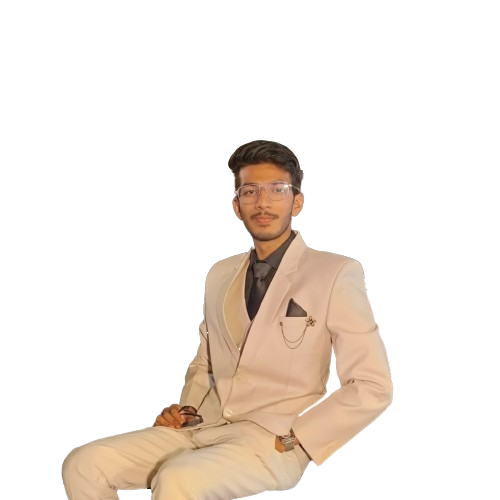
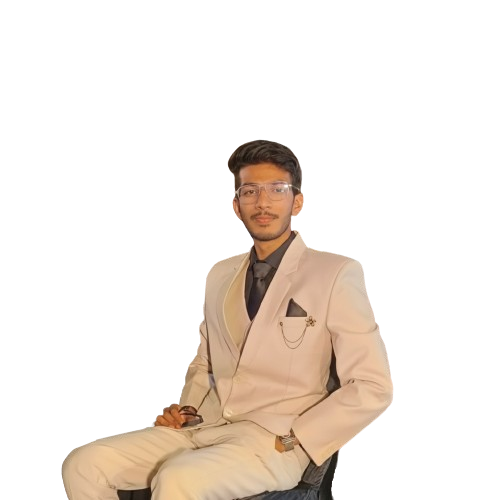
About me page

diff --git a/src/sections/Hero.jsx b/src/sections/Hero.jsx
@@ -53,7 +53,7 @@ export default function Hero() {
 
                 {/* 4. ROLE */}
                 <p className="text-lg font-light text-transparent bg-clip-text bg-gradient-to-r from-purple-400 to-pink-400 text-center mb-8">
-                    Mobile App Developer | Cloud & DevOps Trainee
+                    Full Stack Developer | Cloud & DevOps Trainee
                 </p>
 
                 {/* 5. IMAGE (Centered) */}
@@ -62,7 +62,8 @@ export default function Hero() {
                     <img
                         src={profilePic}
                         alt="Mukul S. Bhagat"
-                        className="w-full h-auto object-contain drop-shadow-xl"
+                        className="w-full h-auto object-contain"
+                        style={{ filter: "grayscale(100%) contrast(105%) drop-shadow(0 20px 25px rgba(0,0,0,0.15))" }}
                     />
                 </div>
 
@@ -72,11 +73,11 @@ export default function Hero() {
                 </p>
 
                 {/* 7. BUTTONS */}
-                <div className="flex flex-col w-full gap-4">
-                    <a href="#projects" className="w-full py-4 rounded-xl bg-gradient-to-r from-purple-600 to-indigo-600 text-white font-medium shadow-lg text-center">
+                <div className="flex flex-row w-full justify-center gap-4">
+                    <a href="#projects" className="flex-1 py-3 rounded-lg bg-gradient-to-r from-purple-600 to-indigo-600 text-white text-sm font-medium shadow-lg text-center hover:opacity-90 active:scale-95 transition-all">
                         View Projects
                     </a>
-                    <a href="#contact" className="w-full py-4 rounded-xl border border-slate-700 text-slate-300 font-medium text-center">
+                    <a href="#contact" className="flex-1 py-3 rounded-lg border border-slate-700 text-slate-300 text-sm font-medium text-center hover:bg-white/5 active:scale-95 transition-all">
                         Get In Touch
                     </a>
                 </div>
@@ -123,18 +124,18 @@ export default function Hero() {
                             </h1>
 
                             <h2 className="text-2xl lg:text-3xl font-light text-transparent bg-clip-text bg-gradient-to-r from-purple-400 to-pink-400 tracking-wide">
-                                Mobile App Developer | Cloud & DevOps Trainee
+                                Full Stack Developer | Cloud & DevOps Trainee
                             </h2>
 
                             <p className="text-slate-400 font-light text-lg lg:text-xl max-w-xl leading-relaxed">
                                 An aspiring software developer with hands-on experience in mobile applications, full-stack web development, and cloud-native systems. I focus on building scalable, clean, and efficient solutions with a strong emphasis on performance.
                             </p>
 
-                            <div className="flex gap-6 pt-4 pb-4">
-                                <a href="#projects" className="px-8 lg:px-10 py-3 lg:py-4 rounded-full bg-gradient-to-r from-purple-700 to-indigo-700 text-white text-base lg:text-lg font-medium shadow-xl hover:shadow-purple-500/20 hover:scale-[1.02] transition-all duration-300">
+                            <div className="flex flex-row gap-4 pt-4">
+                                <a href="#projects" className="px-8 py-3 rounded-lg bg-gradient-to-r from-purple-700 to-indigo-700 text-white text-base font-medium shadow-md hover:shadow-purple-500/20 hover:scale-[1.02] transition-all duration-300">
                                     View Projects
                                 </a>
-                                <a href="#contact" className="px-8 lg:px-10 py-3 lg:py-4 rounded-full border border-slate-700 text-slate-300 text-base lg:text-lg font-light hover:bg-white/5 hover:border-slate-500 hover:text-white transition-all duration-300">
+                                <a href="#contact" className="px-8 py-3 rounded-lg border border-slate-700 text-slate-300 text-base font-medium hover:bg-white/5 hover:border-slate-500 hover:text-white transition-all duration-300">
                                     Get In Touch
                                 </a>
                             </div>
@@ -143,22 +144,46 @@ export default function Hero() {
 
                     {/* RIGHT COLUMN */}
                     <div className="flex items-center justify-center relative z-10 w-full h-full min-h-[500px]">
-                        {/* Background Glow */}
-                        <div className="absolute top-1/2 left-1/2 -translate-x-1/2 -translate-y-1/2 w-[70%] h-[70%] bg-gradient-to-t from-purple-900/20 to-transparent rounded-full blur-[90px] pointer-events-none" />
 
                         <motion.div
-                            initial={{ opacity: 0, scale: 0.95 }}
-                            animate={{ opacity: 1, scale: 1 }}
-                            transition={{ duration: 1, ease: "easeOut" }}
-                            className="relative w-full max-w-[500px] lg:max-w-[650px]"
+                            initial={{ opacity: 0, scale: 0.95, y: 10 }}
+                            animate={{ opacity: 1, scale: 1, y: 0 }}
+                            transition={{ duration: 1.2, ease: "easeOut" }}
+                            className="relative w-full max-w-[500px] lg:max-w-[650px] flex flex-col items-center group"
                         >
+                            {/* PURPLE GRADIENT SPOTLIGHT */}
+                            <motion.div
+                                initial={{ opacity: 0, scale: 0.8 }}
+                                animate={{ opacity: 1, scale: 1 }}
+                                transition={{ duration: 2, ease: "easeOut", delay: 0.2 }}
+                                className="absolute top-1/2 left-1/2 -translate-x-1/2 -translate-y-1/2 w-[90%] h-[90%] bg-gradient-to-br from-purple-600/30 via-indigo-600/20 to-violet-600/10 rounded-full blur-[80px] -z-10"
+                            />
+
                             <img
                                 src={profilePic}
                                 alt="Mukul S. Bhagat"
-                                className="w-full h-auto object-contain drop-shadow-2xl"
+                                className="w-full h-auto object-contain z-10 relative"
                                 style={{
-                                    filter: "drop-shadow(0 0 40px rgba(0,0,0,0.4))"
+                                    filter: "grayscale(100%) contrast(105%) drop-shadow(0 20px 40px rgba(0,0,0,0.4))",
+                                    width: '600px',
+                                    maxWidth: 'none'
                                 }}
+                            />
+
+                            {/* GROUNDING BASE SHADOW */}
+                            <motion.div
+                                initial={{ opacity: 0, scaleX: 0.5 }}
+                                animate={{ opacity: 1, scaleX: 1 }}
+                                transition={{ duration: 1.5, ease: "easeOut", delay: 0.2 }}
+                                className="absolute -bottom-4 w-[80%] h-16 bg-purple-900/40 blur-[40px] rounded-[100%] -z-10"
+                            />
+
+                            {/* SUBTLE PLATFORM SURFACE */}
+                            <motion.div
+                                initial={{ opacity: 0, scaleX: 0.8 }}
+                                animate={{ opacity: 0.6, scaleX: 1 }}
+                                transition={{ duration: 1.8, ease: "easeOut", delay: 0.1 }}
+                                className="absolute -bottom-1 w-[110%] h-[1px] bg-gradient-to-r from-transparent via-purple-400/30 to-transparent"
                             />
                         </motion.div>
                     </div>

diff --git a/src/sections/About.jsx b/src/sections/About.jsx
@@ -1,5 +1,6 @@
 import { motion } from 'framer-motion'
 import { Code, Terminal, Cpu } from 'lucide-react'
+import travelPic from '../assets/travelpic.jpg'
 
 export default function About() {
     return (
@@ -12,10 +13,12 @@ export default function About() {
                     transition={{ duration: 0.8 }}
                     className="relative"
                 >
-                    <div className="aspect-square rounded-2xl overflow-hidden bg-slate-800 relative z-10 flex items-center justify-center border border-slate-700">
-                        {/* Image Placeholder */}
-                        <Terminal size={64} className="text-slate-600" />
-                        <p className="absolute bottom-4 text-slate-500 text-sm">Profile Image Placeholder</p>
+                    <div className="aspect-square rounded-2xl overflow-hidden bg-slate-800 relative z-10 border border-slate-700">
+                        <img
+                            src={travelPic}
+                            alt="Mukul Travelling"
+                            className="w-full h-full object-cover transition-transform duration-500 hover:scale-105"
+                        />
                     </div>
                     {/* Decorative background element */}
                     <div className="absolute top-4 -left-4 w-full h-full border-2 border-purple-500/30 rounded-2xl -z-0" />
@@ -33,24 +36,22 @@ export default function About() {
                     </h2>
                     <div className="space-y-4 text-slate-300 leading-relaxed text-lg">
                         <p>
-                            An aspiring Software Developer with hands-on experience in Full-Stack Web applications, Native Mobile Apps, and AI-powered solutions.
+                            An aspiring Software Developer with hands-on experience in  <strong className="text-purple-400"> Full-Stack Web applications, Native Mobile Apps, AI-powered solutions</strong> and modern <strong className="text-purple-400">DevOps</strong> tools.
                         </p>
                         <p>
-                            Skilled in <strong className="text-purple-400">Java, Python, JavaScript, Kotlin</strong>, and modern DevOps tools. I enjoy building scalable systems from concept to deployment and bring a creative, problem-solving mindset to every project.
+                            When I’m not debugging or designing architectures, you can find me traveling to new places or focusing on fitness. I approach every project with the same energy I bring to my workouts and adventures: with discipline, creativity, and a drive to constantly improve.
                         </p>
                     </div>
 
-                    <div className="grid grid-cols-3 gap-4 mt-8">
-                        {[
-                            { label: 'Projects', value: '10+' },
-                            { label: 'Experience', value: '2 Yrs' },
-                            { label: 'Certifications', value: '5+' },
-                        ].map((stat, i) => (
-                            <div key={i} className="text-center p-4 rounded-xl bg-slate-800/50 border border-slate-800">
-                                <div className="text-2xl font-bold text-white">{stat.value}</div>
-                                <div className="text-sm text-slate-500">{stat.label}</div>
-                            </div>
-                        ))}
+                    <div className="mt-8">
+                        <a
+                            href="https://www.instagram.com/mukulbhagat_/"
+                            target="_blank"
+                            rel="noopener noreferrer"
+                            className="inline-flex items-center justify-center px-8 py-3 rounded-full bg-gradient-to-r from-purple-600 to-pink-600 text-white font-medium shadow-lg hover:shadow-pink-500/30 hover:scale-105 active:scale-95 transition-all duration-300"
+                        >
+                            Follow My Journey on Instagram
+                        </a>
                     </div>
                 </motion.div>
             </div>
